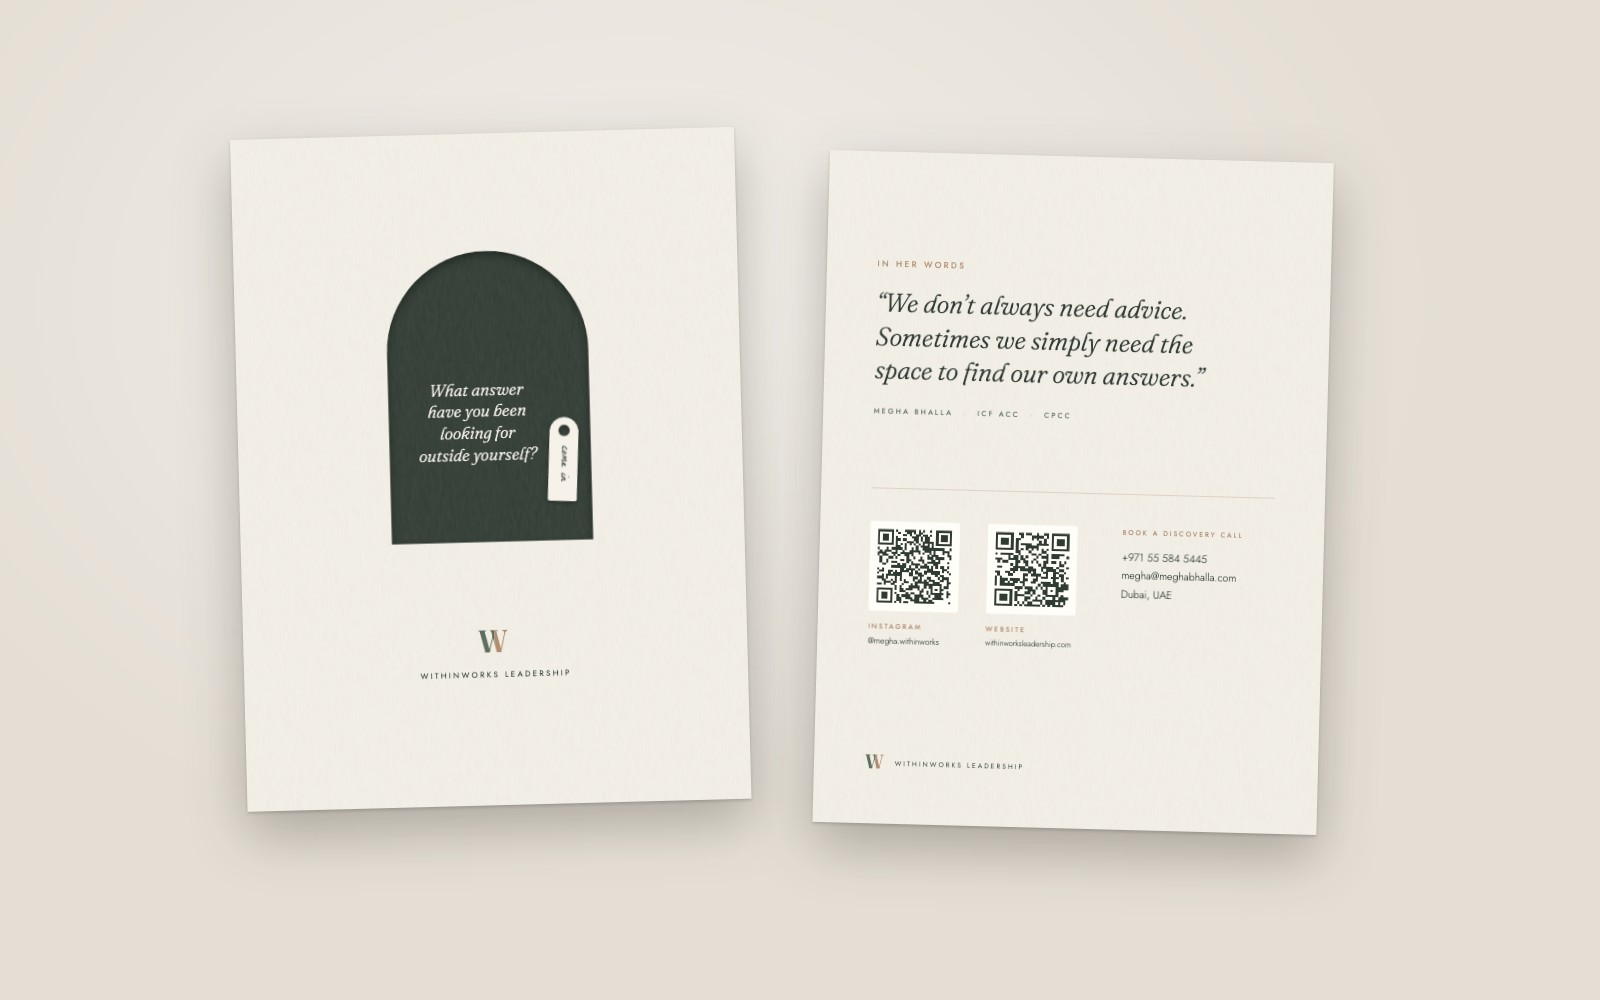
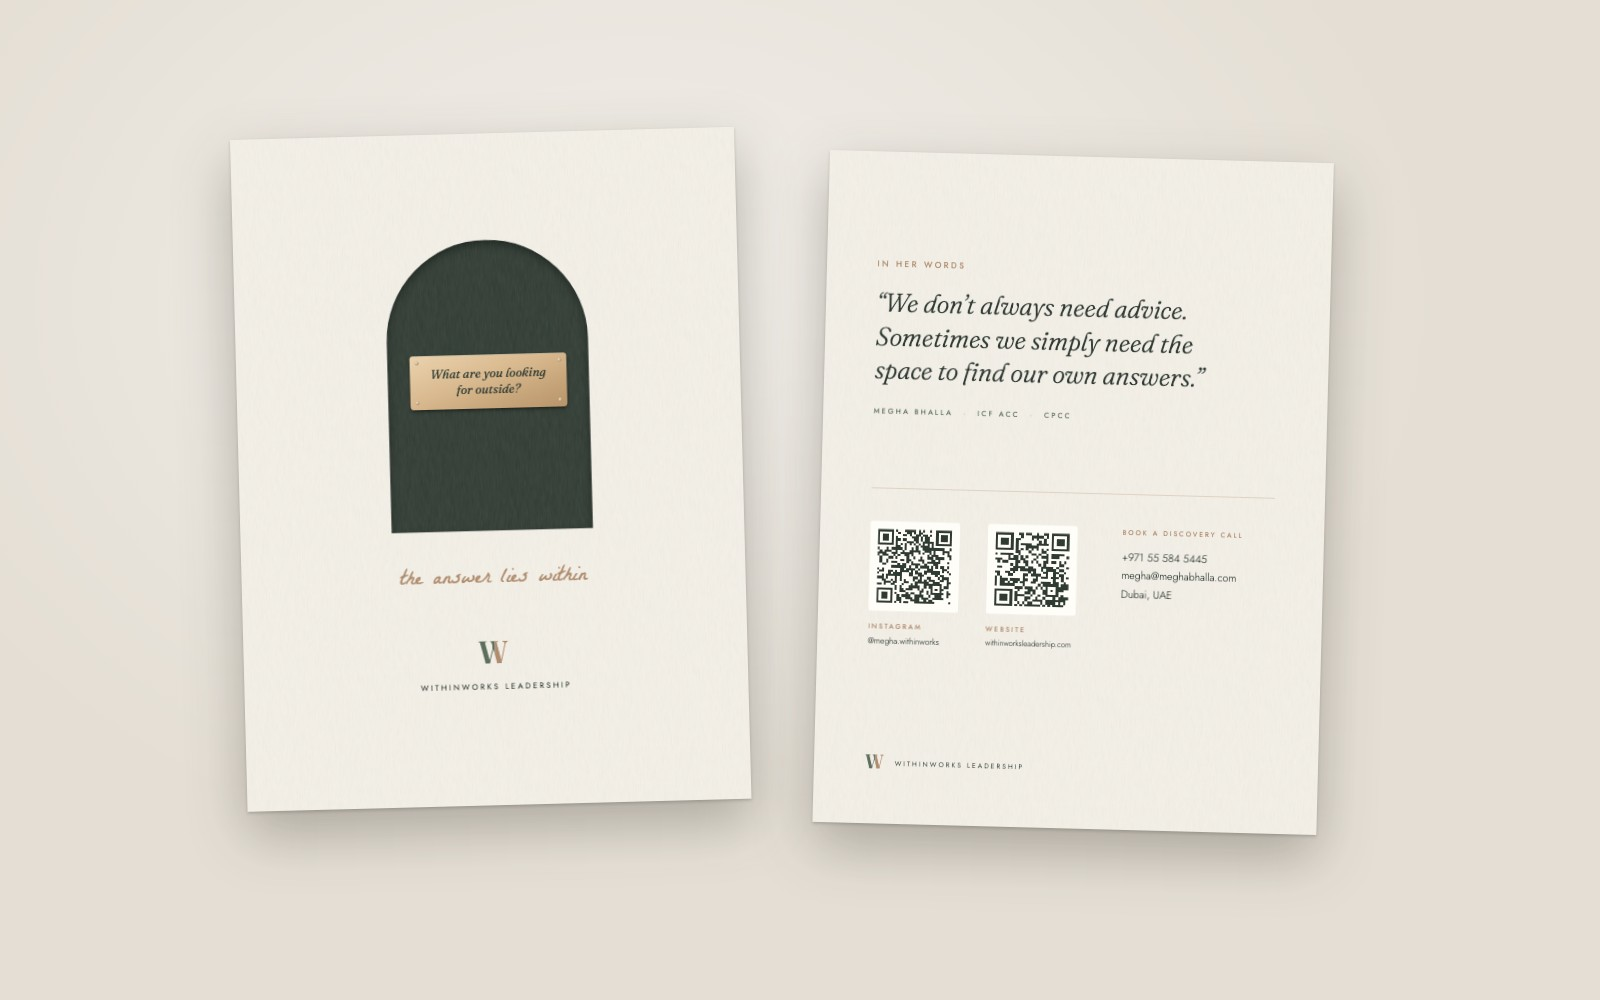
Printables: door nameplate question, answer below the door

diff --git a/printables-test.html b/printables-test.html
@@ -19,12 +19,12 @@
 <header class="top"><div class="shell">
 <a class="brand" href="./"><svg class="mark"><use href="#ww"/></svg><span><b>WithinWorks</b><small>The Brain</small></span></a><a class="crumb" href="./">&larr; Brain</a>
 </div></header>
-<section class="page-hero"><div class="shell"><p class="eyebrow">Printables</p><h1>For the <em>hand</em></h1><p class="lede">A folder for client meetings and a small journal for the sessions. First look, before print files.</p></div></section><section><div class="shell"><div class="card" style="padding:0;overflow:hidden;margin-bottom:28px"><img src="printables/fm-a.jpg?v=1794315611" alt="Folder A, The path: front and back" style="width:100%;display:block">
-<div style="padding:22px 26px"><h3>Folder A, The path: front and back</h3><p>Front: a die-cut S-curve flap opens onto a pearl-green layer; the W and name in gold foil. Back: her words with her name and credentials, the Instagram and website QR codes, and her contact details.</p></div></div><div class="card" style="padding:0;overflow:hidden;margin-bottom:28px"><img src="printables/fi-a.jpg?v=1794315611" alt="Folder A, inside" style="width:100%;display:block">
-<div style="padding:22px 26px"><h3>Folder A, inside</h3><p>Left: the journey from her website, rising from where you are today to your next chapter. Right: a session sheet and a pocket whose wave edge echoes the front, with her card.</p></div></div><div class="card" style="padding:0;overflow:hidden;margin-bottom:28px"><img src="printables/fm-c.jpg?v=1794315611" alt="Folder B, The door: front and back" style="width:100%;display:block">
-<div style="padding:22px 26px"><h3>Folder B, The door: front and back</h3><p>The light version: an ivory cover with an arched door cut into it, a small brass knob, and her question on the forest page inside. Back in ivory with forest QR codes.</p></div></div><div class="card" style="padding:0;overflow:hidden;margin-bottom:28px"><img src="printables/fi-c.jpg?v=1794315611" alt="Folder B, inside" style="width:100%;display:block">
-<div style="padding:22px 26px"><h3>Folder B, inside</h3><p>The same journey and pocket, on ivory, with an arch notch so the card lifts out easily.</p></div></div><div class="card" style="padding:0;overflow:hidden;margin-bottom:28px"><img src="printables/journal-closed.jpg?v=1794315611" alt="Journal, “Notes from within”" style="width:100%;display:block">
-<div style="padding:22px 26px"><h3>Journal, “Notes from within”</h3><p>A small A5 journal in the same linen, the W pressed into the cover, a mocha elastic band.</p></div></div><div class="card" style="padding:0;overflow:hidden;margin-bottom:28px"><img src="printables/journal-open.jpg?v=1794315611" alt="Journal, inside" style="width:100%;display:block">
+<section class="page-hero"><div class="shell"><p class="eyebrow">Printables</p><h1>For the <em>hand</em></h1><p class="lede">A folder for client meetings and a small journal for the sessions. First look, before print files.</p></div></section><section><div class="shell"><div class="card" style="padding:0;overflow:hidden;margin-bottom:28px"><img src="printables/fm-a.jpg?v=1794315943" alt="Folder A, The path: front and back" style="width:100%;display:block">
+<div style="padding:22px 26px"><h3>Folder A, The path: front and back</h3><p>Front: a die-cut S-curve flap opens onto a pearl-green layer; the W and name in gold foil. Back: her words with her name and credentials, the Instagram and website QR codes, and her contact details.</p></div></div><div class="card" style="padding:0;overflow:hidden;margin-bottom:28px"><img src="printables/fi-a.jpg?v=1794315943" alt="Folder A, inside" style="width:100%;display:block">
+<div style="padding:22px 26px"><h3>Folder A, inside</h3><p>Left: the journey from her website, rising from where you are today to your next chapter. Right: a session sheet and a pocket whose wave edge echoes the front, with her card.</p></div></div><div class="card" style="padding:0;overflow:hidden;margin-bottom:28px"><img src="printables/fm-c.jpg?v=1794315943" alt="Folder B, The door: front and back" style="width:100%;display:block">
+<div style="padding:22px 26px"><h3>Folder B, The door: front and back</h3><p>The light version: an ivory cover with an arched forest door. A brass nameplate on the door asks “What are you looking for outside?”, and below the door, in her hand, “the answer lies within”. Back in ivory with forest QR codes.</p></div></div><div class="card" style="padding:0;overflow:hidden;margin-bottom:28px"><img src="printables/fi-c.jpg?v=1794315943" alt="Folder B, inside" style="width:100%;display:block">
+<div style="padding:22px 26px"><h3>Folder B, inside</h3><p>The same journey and pocket, on ivory, with an arch notch so the card lifts out easily.</p></div></div><div class="card" style="padding:0;overflow:hidden;margin-bottom:28px"><img src="printables/journal-closed.jpg?v=1794315943" alt="Journal, “Notes from within”" style="width:100%;display:block">
+<div style="padding:22px 26px"><h3>Journal, “Notes from within”</h3><p>A small A5 journal in the same linen, the W pressed into the cover, a mocha elastic band.</p></div></div><div class="card" style="padding:0;overflow:hidden;margin-bottom:28px"><img src="printables/journal-open.jpg?v=1794315943" alt="Journal, inside" style="width:100%;display:block">
 <div style="padding:22px 26px"><h3>Journal, inside</h3><p>Her own tool on every spread: the facts on the left, the story on the right, her question at the foot of the page.</p></div></div></div></section>
 <div class="shell"><nav class="doors"><a href="./">Brain</a><a href="content/">Instagram</a><a href="linkedin/">LinkedIn</a><a href="stories/">Stories</a><a href="reel-cuts/">Reels</a><a href="strategy.html">Strategy</a><a href="megha.html">Megha</a><a href="voice.html">Voice</a><a href="audience.html">Audience</a><a href="brand.html">Brand</a><a href="offers.html">Offers</a><a href="tech.html">Tech</a><a href="photos.html">Photos</a><a href="research.html">Research</a><a href="ideas.html">Ideas</a></nav></div>
 <footer><div class="shell">WithinWorks Leadership &middot; Kept by Mehr Patni &middot; Private working page</div></footer>
